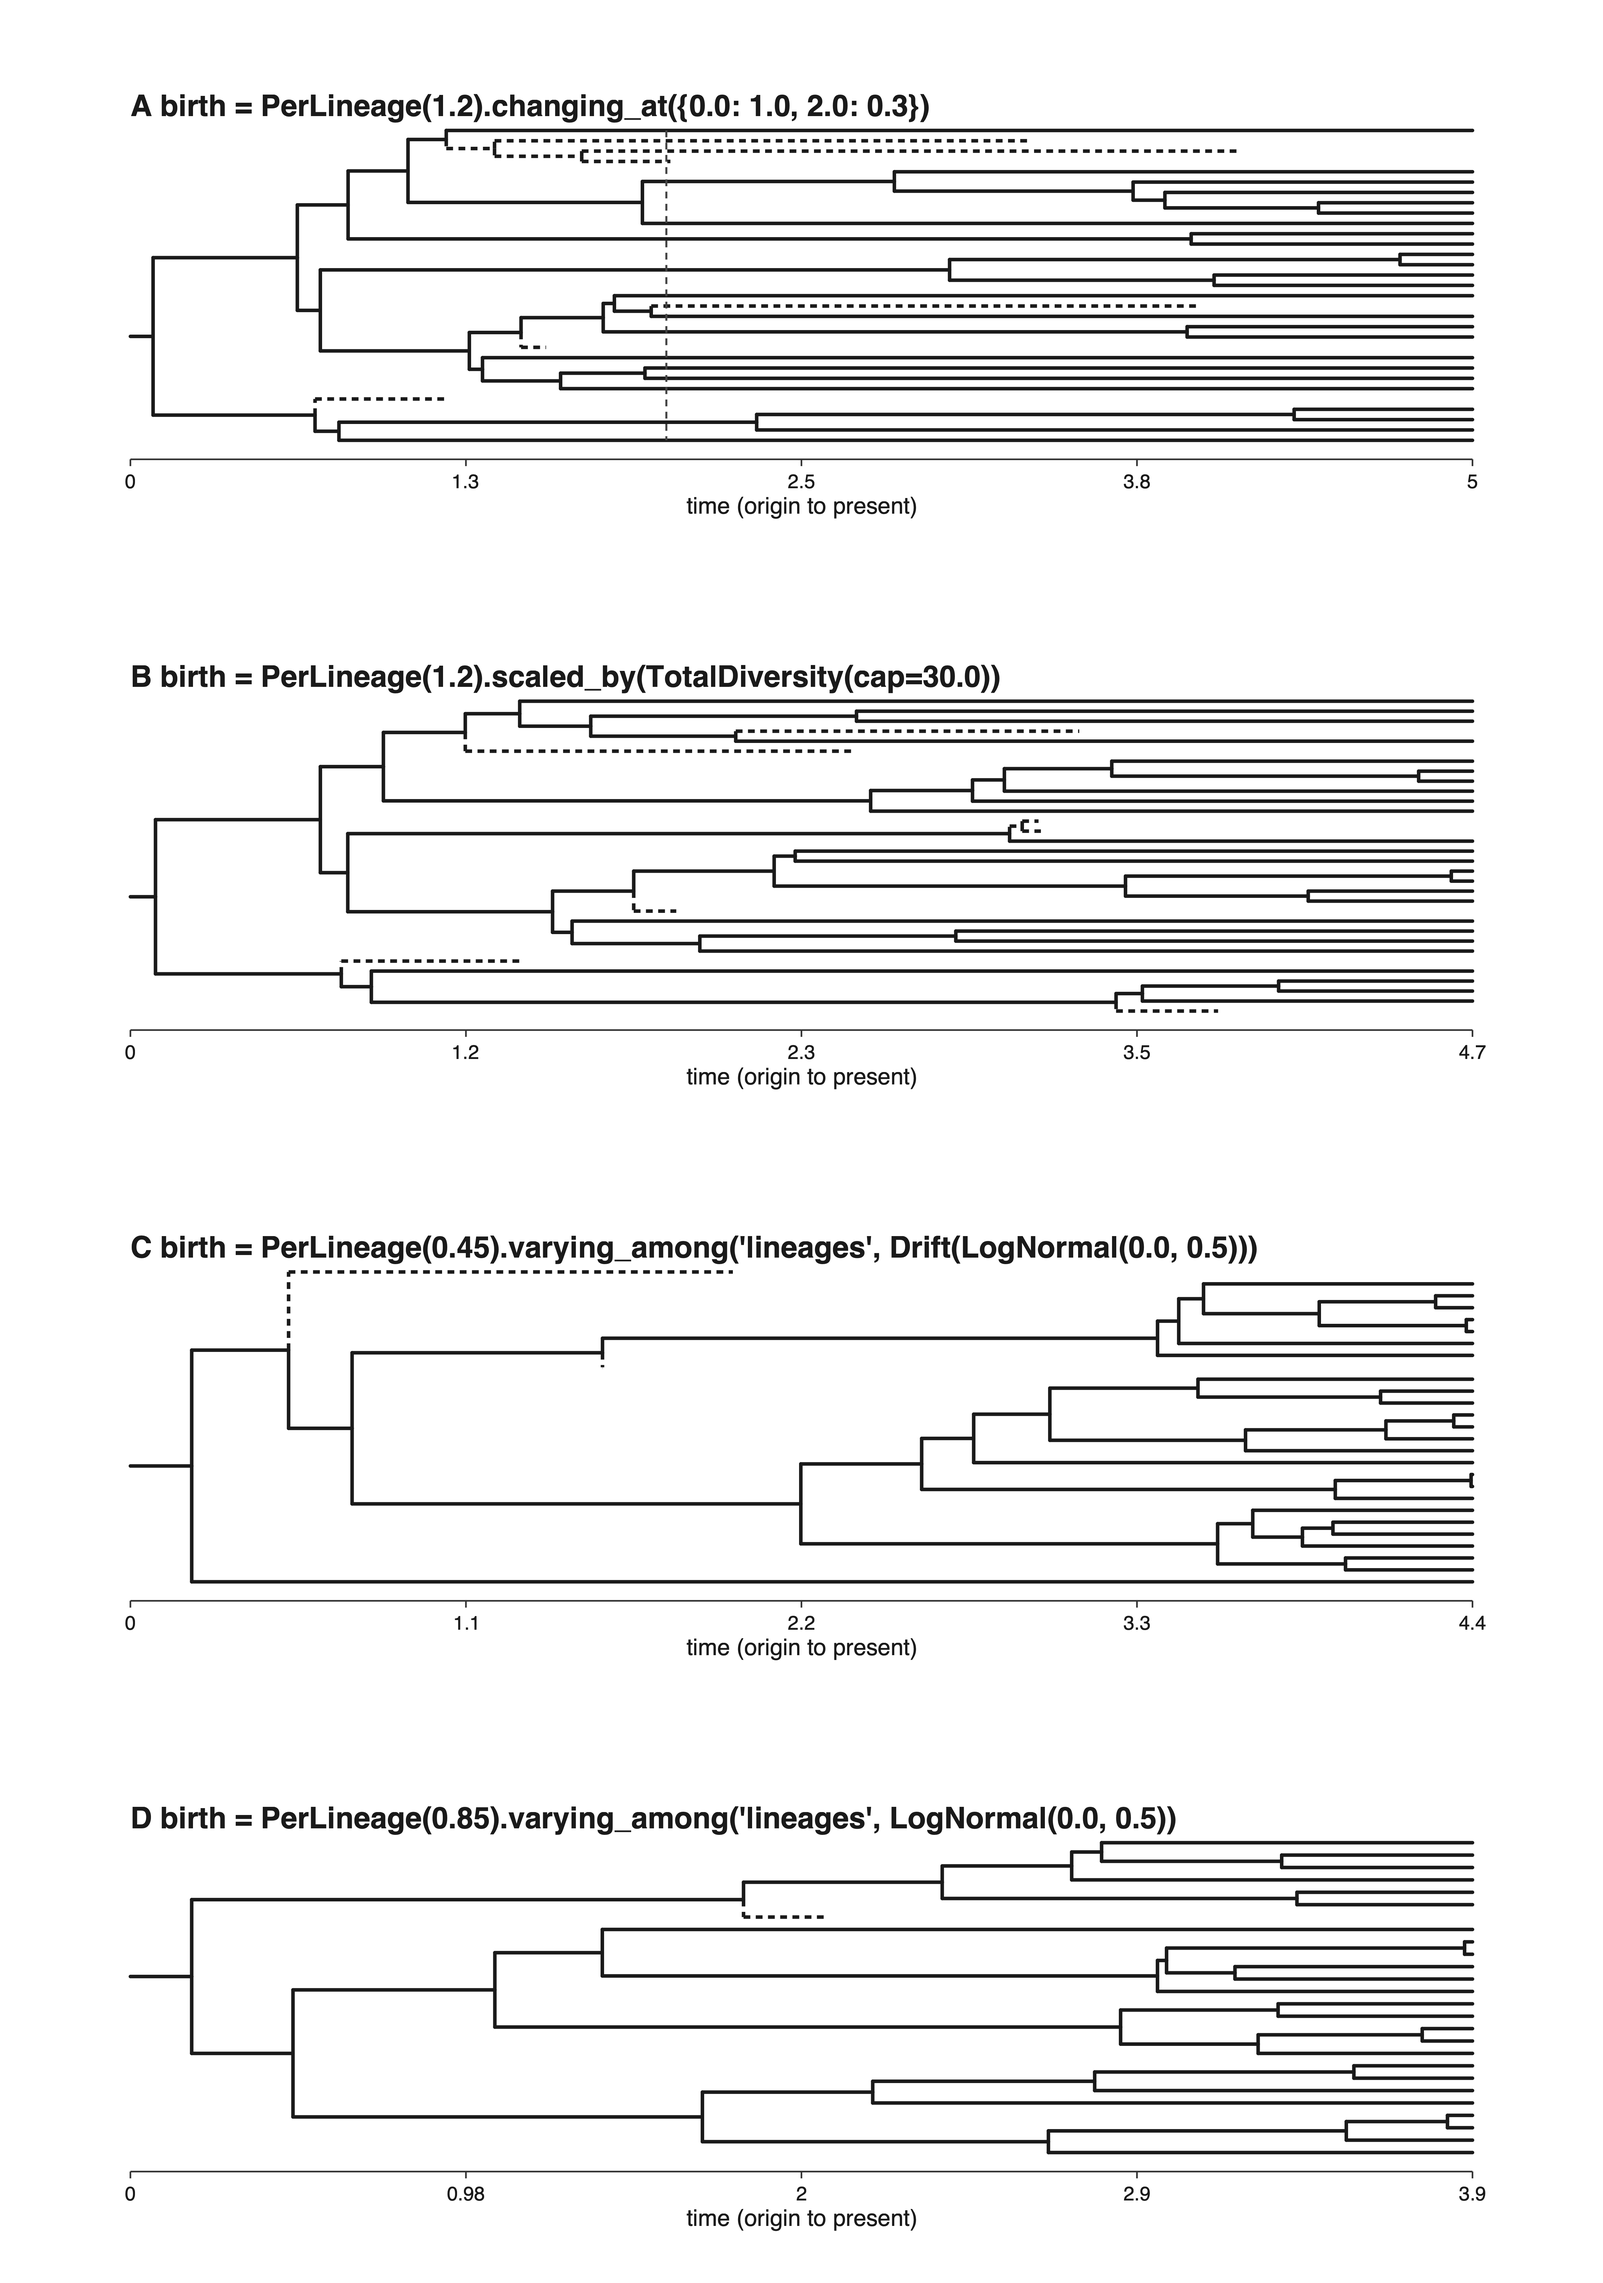
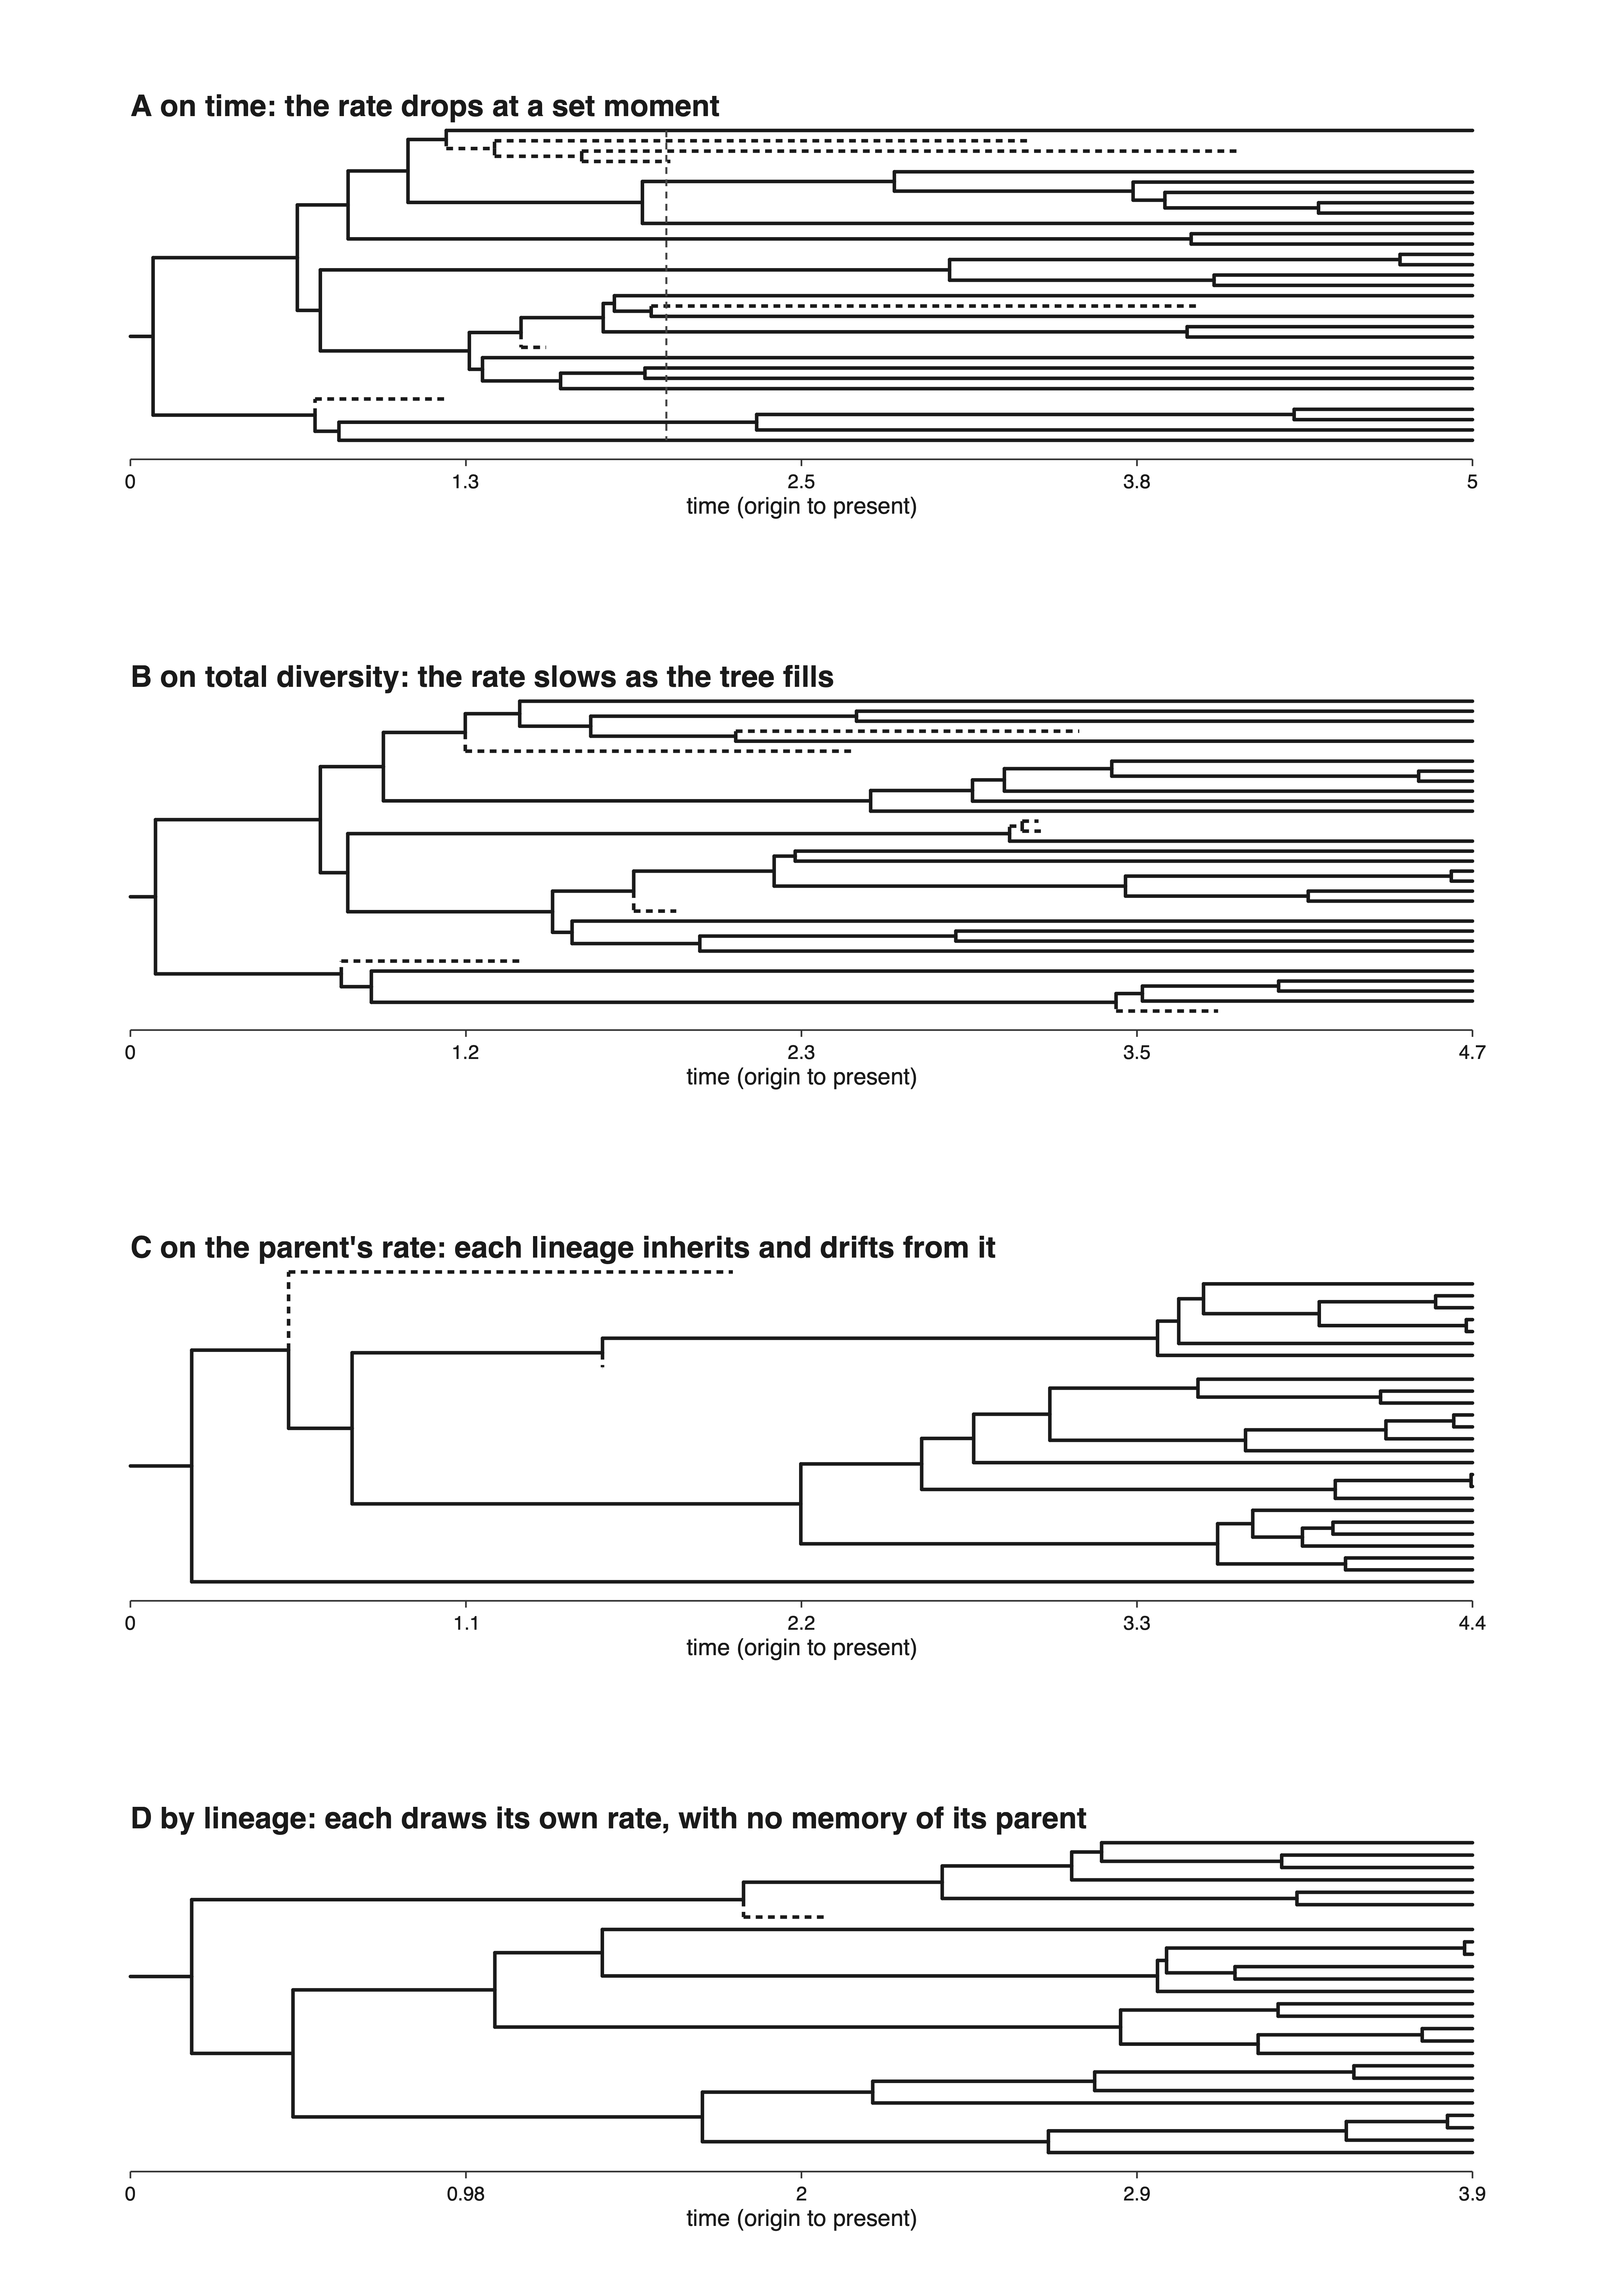
docs(figures): the rate panels say what they do in words, not in Python
The four panels were labelled with the rate's own repr, which could not drift from
the code but put an expression in a figure whose section deliberately carries none.
Each now carries the chapter's own name for that kind of variation — on time, on
total diversity, on the parent's rate, by lineage — so panel and bullet read as the
same four things. The written form of each rate is in the chapter's Literature
table, which is the one place it belongs.

diff --git a/figures/scripts/fig_variable_rates.py b/figures/scripts/fig_variable_rates.py
@@ -21,9 +21,10 @@ so the figure cannot drift away from what the code does. Each panel stops at the
 lineages, which is what makes them comparable: the same amount of tree, reached differently.
 Bounding by tip count rather than by time also keeps the drifting rate in panel C from running away.
 
-Each panel carries only its letter and the rate as the chapter writes it. The section's prose says
-what each one *does* and carries no code, so this is where the written form of a rate is read off
-against the tree it grew — the caption stays to one line. Solid-surviving / dashed-extinct is the
+Each panel carries its letter and a plain-English label, the chapter's own name for that kind of
+variation. No expression is printed: the section's prose carries no code either, and the written
+form of each rate is in the chapter's Literature table, so the figure would be the third place to
+say the same thing. The caption stays to one line. Solid-surviving / dashed-extinct is the
 convention of the figure just above this one in the chapter, and is likewise stated there.
 
 The panels are stacked as nested `<svg>` elements, which is how one SVG holds several
@@ -53,32 +54,35 @@ N_EXTANT = 25          # every panel stops at the same standing diversity
 DEATH = 0.1            # low, so the dashed extinct lineages stay a garnish rather than the picture
 SEED = 3               # a seed where the four come out at comparable depths (~3.9-5.0)
 
-#: (panel letter, the rate itself, a time to mark or None)
+#: (panel letter, what the panel says, the rate itself, a time to mark or None)
 #:
-#: The label a panel carries is the rate's own `repr`, which is its written form, so the expression
-#: printed in the figure is by construction the expression that grew the tree beneath it. The two
-#: used to be typed separately, one as a string and one as code, and they drifted twice: first when
-#: a class was renamed, then when `*` stopped composing a rate and only the code half raised.
+#: The label is the chapter's own name for that kind of variation, in words. It used to be the rate's
+#: `repr`, which could not drift from the code but put an expression in a figure whose section
+#: deliberately carries none; the written form of each is in the chapter's Literature table. Keep a
+#: label saying the same thing as the rate beside it — nothing checks that they agree.
 PANELS = [
-    ("A", PerLineage(1.2).changing_at({0: 1.0, 2.0: 0.3}),
+    ("A", "on time: the rate drops at a set moment",
+     PerLineage(1.2).changing_at({0: 1.0, 2.0: 0.3}),
      2.0),                 # the skyline breakpoint, marked on the panel
-    ("B", PerLineage(1.2).scaled_by(TotalDiversity(cap=30)),
+    ("B", "on total diversity: the rate slows as the tree fills",
+     PerLineage(1.2).scaled_by(TotalDiversity(cap=30)),
      None),                # nothing to mark: the rate falls continuously, not at a moment
-    ("C", PerLineage(0.45).varying_among('lineages', Drift(LogNormal(0.0, 0.5))),
+    ("C", "on the parent's rate: each lineage inherits and drifts from it",
+     PerLineage(0.45).varying_among('lineages', Drift(LogNormal(0.0, 0.5))),
      None),
     # D is C's counterpart without the inheritance: the same distribution, drawn afresh per lineage.
     # Its base rate is lower than A and B's because the multipliers have mean 1 either way, and
     # higher than C's because drift accumulates down a path and C's does not need the help.
-    ("D", PerLineage(0.85).varying_among('lineages', LogNormal(0.0, 0.5)),
+    ("D", "by lineage: each draws its own rate, with no memory of its parent",
+     PerLineage(0.85).varying_among('lineages', LogNormal(0.0, 0.5)),
      None),
 ]
 
 PANEL_W, PANEL_H = 1180, 420
 
 
-def panel(letter: str, birth, mark_time: float | None) -> tuple[str, int]:
+def panel(letter: str, says: str, birth, mark_time: float | None) -> tuple[str, int]:
     """One panel's SVG: a tree grown under ``birth``, drawn to this figure's style."""
-    written = f"birth = {birth!r}"
     result = species.simulate_species_tree(birth=birth, death=DEATH, n_extant=N_EXTANT, seed=SEED)
     tree = ph.trees.loads(result.complete_tree.to_newick() + ";")
 
@@ -92,7 +96,7 @@ def panel(letter: str, birth, mark_time: float | None) -> tuple[str, int]:
     # comes out bare anyway, and blanking them would collapse every tip onto one name.
 
     figure = (ph.trees.plot(tree, dashed=dashed, style=tree_style(PANEL_W, PANEL_H, margin=96))
-              + ph.trees.note(f"{letter}    {written}", loc="top-left", size=FS_LABEL)
+              + ph.trees.note(f"{letter}    {says}", loc="top-left", size=FS_LABEL)
               + ph.trees.time_axis("time (origin to present)"))
     if mark_time is not None:
         # The moment the rate changes, drawn as a faint rule so it reads as a reference rather than
@@ -120,8 +124,8 @@ def stack(panels: list[str], width: int, height: int) -> str:
 
 def render() -> None:
     svgs = []
-    for letter, birth, mark in PANELS:
-        svg, n_dead = panel(letter, birth, mark)
+    for letter, says, birth, mark in PANELS:
+        svg, n_dead = panel(letter, says, birth, mark)
         svgs.append(svg)
         print(f"  {letter}: {N_EXTANT} extant, {n_dead} nodes with no survivor")
     save(stack(svgs, PANEL_W, PANEL_H), "variable_rates")
